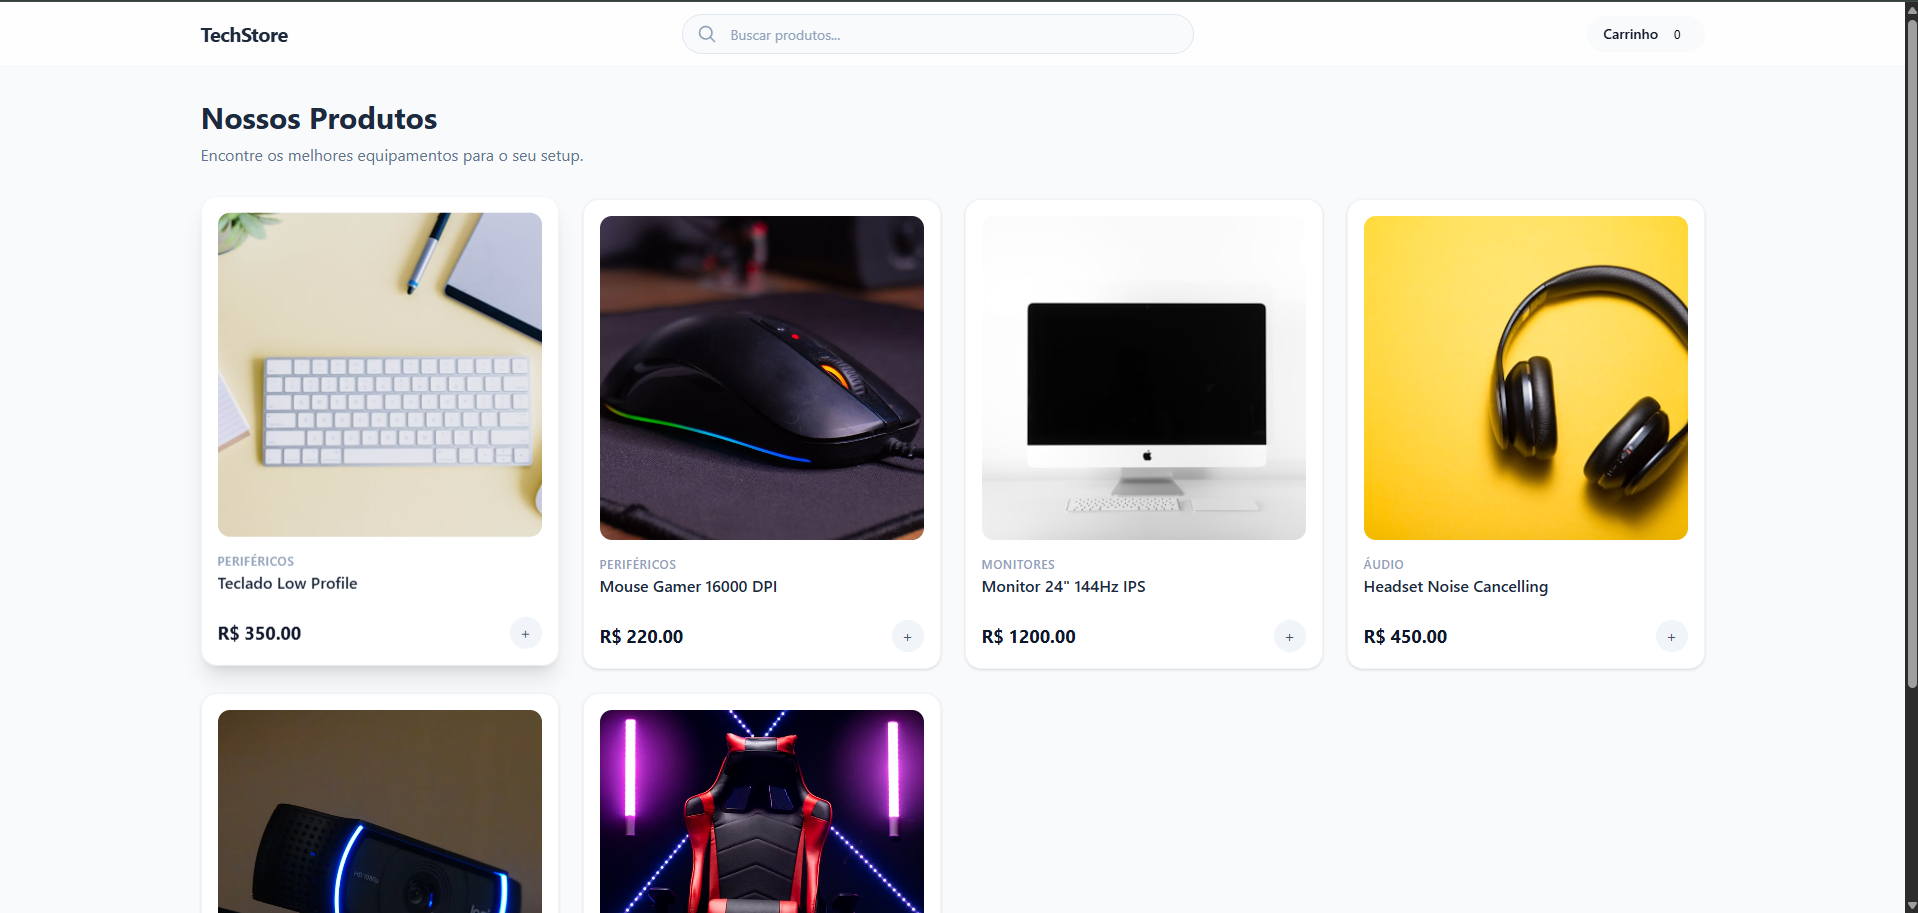
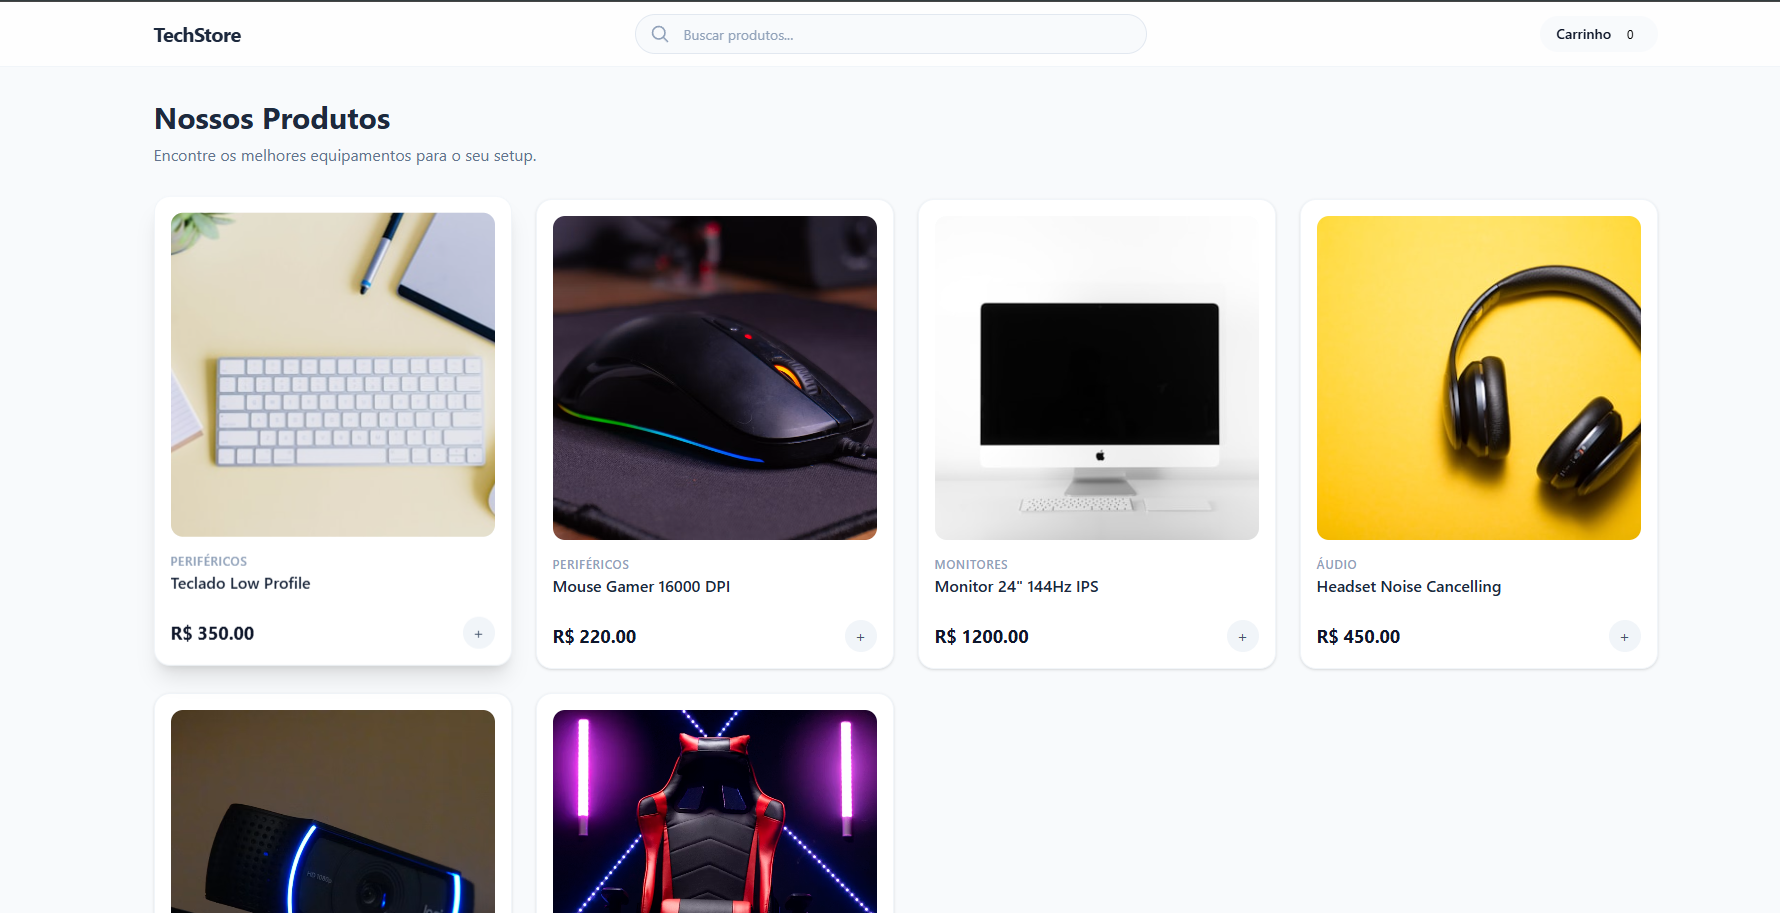
style: update image asset and improve responsiveness

diff --git a/src/components/ProjectSection.jsx b/src/components/ProjectSection.jsx
@@ -60,7 +60,7 @@ const ProjectSection = ({ variant = "homePage" }) => {
             className={`flex justify-center items-start rounded-2xl ${isHome ? "w-full lg:w-[40vw] min-h-90 h-auto" : "w-full"}`}
           >
             <Card.Content className={`${isHome ? cardStyle.home : cardStyle.project}`}>
-              <img src={item.imgUrl} className="rounded-2xl w-full object-cover" />
+              <img src={item.imgUrl} alt={item.imgAlt} className={`rounded-2xl w-full object-cover ${!isHome && "xl:w-[40vw] xl:min-w-[40vw]"}`} />
               <div className={`flex flex-col w-full px-5 gap-3 pb-5 ${!isHome && "py-5"}`}>
                 <h3 className="text-white text-xl text-[17px] md:text-[22px]">{item.name}</h3>
                 <p className="text-white font-extralight text-[12px] md:text-[15px]">{item.description}</p>
